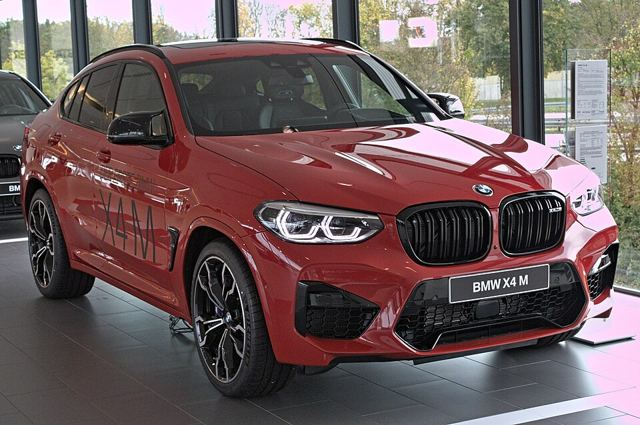
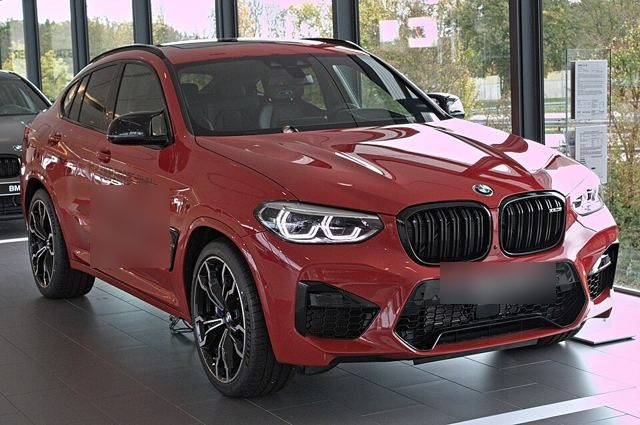
BMW X4 : plaque et inscription floutées
La plaque « BMW X4 M » et le « X4 M » de la portière donnaient la réponse. Une migration remplace la photo déjà enregistrée en base.

Changed region(s): [[0.6875, 0.6118, 0.875, 0.7341], [0.125, 0.4282, 0.2812, 0.6424]]

diff --git a/pocketbase/pb_migrations/1790000006_photos_floutees.js b/pocketbase/pb_migrations/1790000006_photos_floutees.js
@@ -1,0 +1,24 @@
+/// <reference path="../pb_data/types.d.ts" />
+
+/* Photos de modèles corrigées après coup (texte qui donnait la réponse,
+   flouté) : les migrations précédentes ne renvoient pas l'image d'une
+   question déjà en base, celle-ci la remplace. Pour une prochaine correction,
+   ajouter le modèle à la liste dans une nouvelle migration. */
+migrate((app) => {
+  const corrigees = ["BMW X4"];
+  const modeles = JSON.parse(toString($os.readFile("donnees/modeles.json")));
+
+  for (const q of modeles.filter((m) => corrigees.indexOf(m.reponse) !== -1)) {
+    const existantes = app.findRecordsByFilter(
+      "questions", "mode = {:mode} && reponse = {:reponse}", "", 1, 0,
+      { mode: q.mode, reponse: q.reponse },
+    );
+    for (const question of existantes) {
+      question.set("image", $filesystem.fileFromPath(`donnees/images/${q.fichier}`));
+      question.set("auteur", q.auteur || "");
+      app.save(question);
+    }
+  }
+}, () => {
+  // Rien à défaire : l'ancienne photo donnait la réponse.
+});
